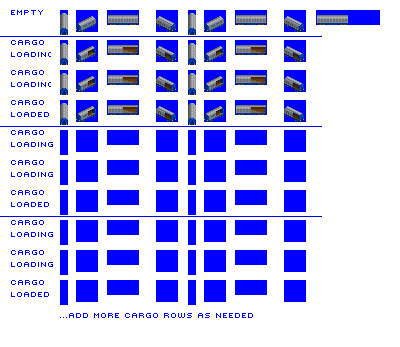
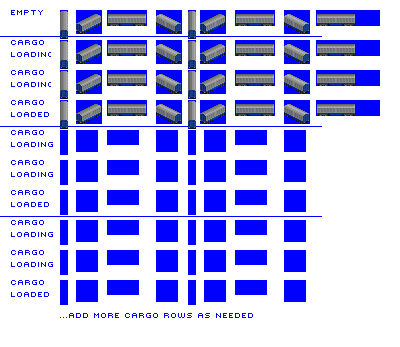
Change: graphics for Brit gen 3 boxcar

Changed region(s): [[0.15, 0.0288, 0.57, 0.3746], [0.6, 0.0288, 0.96, 0.3746]]

diff --git a/src/global_constants.py b/src/global_constants.py
@@ -147,8 +147,8 @@ default_train_offsets = {'3': [[-3, -23], [-3, -20], [6, -11], [5, -14], [-3, -1
                          '6': [[-3, -20], [-8, -17], [-4, -11], [-1, -13], [-3, -12], [-16, -13], [-20, -11], [-8, -18]],
                          '7': [[-3, -18], [-8, -17], [-5, -11], [-1, -12], [-3, -12], [-17, -12], [-24, -11], [-10, -18]],
                          '8': [[-3, -17], [-10, -16], [-8, -11], [-4, -13], [-3, -10], [-17, -12], [-24, -11], [-10, -17]],
-                         '9': [[-3, -19], [-10, -18], [-8, -11], [-4, -14], [-3, -10], [-19, -13], [-28, -12], [-12, -19]],
-                         '10': [[-3, -19], [-12, -17], [-12, -11], [-6, -14], [-3, -12], [-19, -13], [-28, -12], [-12, -18]]}
+                         '9': [[-3, -19], [-10, -18], [-8, -12], [-4, -14], [-3, -10], [-19, -13], [-28, -12], [-12, -19]],
+                         '10': [[-3, -19], [-12, -17], [-12, -12], [-6, -14], [-3, -12], [-19, -13], [-28, -12], [-12, -18]]}
 
 # mapping from length of visible 'part' to internal slice lengths
 slice_lengths = {3: (1,1,1),

diff --git a/src/vehicles/box_cars.py b/src/vehicles/box_cars.py
@@ -76,14 +76,13 @@ consist = WagonConsist(type_config = type_config,
                     replacement_id = '-none',
                     intro_date = 1995,
                     vehicle_life = 40,
-                    graphics_status = '',
-                    use_legacy_spritesheet = True)
+                    graphics_status = '')
 
 consist.add_unit(Wagon(type_config = type_config,
                         consist = consist,
                         capacity_freight = 55,
                         weight = 25,
-                        vehicle_length = 8,
+                        vehicle_length = 10,
                         loading_speed = 20))
 
 consist.add_model_variant(intro_date=0,
